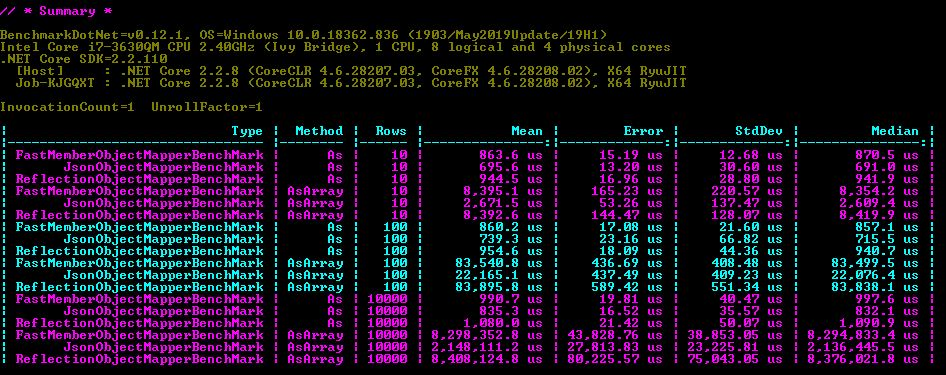
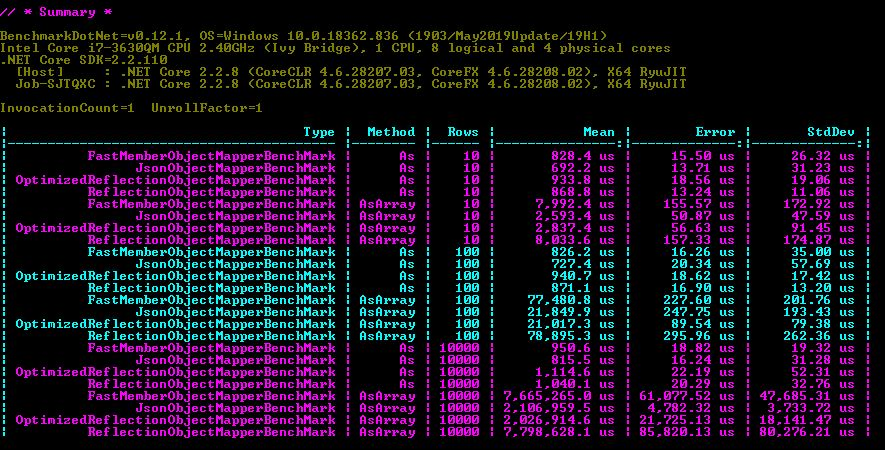
Added Optimized Reflection benchmark and updated docs

diff --git a/docs/artifacts/results/BenchmarkRun-joined-2020-06-08-22-50-22-report.html b/docs/artifacts/results/BenchmarkRun-joined-2020-06-08-22-50-22-report.html
@@ -1,0 +1,54 @@
+<!DOCTYPE html>
+<html lang='en'>
+<head>
+<meta charset='utf-8' />
+<title>BenchmarkRun-joined-2020-06-08-22-50-22</title>
+
+<style type="text/css">
+	table { border-collapse: collapse; display: block; width: 100%; overflow: auto; }
+	td, th { padding: 6px 13px; border: 1px solid #ddd; text-align: right; }
+	tr { background-color: #fff; border-top: 1px solid #ccc; }
+	tr:nth-child(even) { background: #f8f8f8; }
+</style>
+</head>
+<body>
+<pre><code>
+BenchmarkDotNet=v0.12.1, OS=Windows 10.0.18362.836 (1903/May2019Update/19H1)
+Intel Core i7-3630QM CPU 2.40GHz (Ivy Bridge), 1 CPU, 8 logical and 4 physical cores
+.NET Core SDK=2.2.110
+  [Host]     : .NET Core 2.2.8 (CoreCLR 4.6.28207.03, CoreFX 4.6.28208.02), X64 RyuJIT
+  Job-SJTQXC : .NET Core 2.2.8 (CoreCLR 4.6.28207.03, CoreFX 4.6.28208.02), X64 RyuJIT
+</code></pre>
+<pre><code>InvocationCount=1  UnrollFactor=1  
+</code></pre>
+
+<table>
+<thead><tr><th>                              Type</th><th>Method</th><th>Rows</th><th>    Mean</th><th> Error</th><th>StdDev</th>
+</tr>
+</thead><tbody><tr><td>FastMemberObjectMapperBenchMark</td><td>As</td><td>10</td><td>828.4 &mu;s</td><td>15.50 &mu;s</td><td>26.32 &mu;s</td>
+</tr><tr><td>JsonObjectMapperBenchMark</td><td>As</td><td>10</td><td>692.2 &mu;s</td><td>13.71 &mu;s</td><td>31.23 &mu;s</td>
+</tr><tr><td>OptimizedReflectionObjectMapperBenchMark</td><td>As</td><td>10</td><td>933.8 &mu;s</td><td>18.56 &mu;s</td><td>19.06 &mu;s</td>
+</tr><tr><td>ReflectionObjectMapperBenchMark</td><td>As</td><td>10</td><td>868.8 &mu;s</td><td>13.24 &mu;s</td><td>11.06 &mu;s</td>
+</tr><tr><td>FastMemberObjectMapperBenchMark</td><td>AsArray</td><td>10</td><td>7,992.4 &mu;s</td><td>155.57 &mu;s</td><td>172.92 &mu;s</td>
+</tr><tr><td>JsonObjectMapperBenchMark</td><td>AsArray</td><td>10</td><td>2,593.4 &mu;s</td><td>50.87 &mu;s</td><td>47.59 &mu;s</td>
+</tr><tr><td>OptimizedReflectionObjectMapperBenchMark</td><td>AsArray</td><td>10</td><td>2,837.4 &mu;s</td><td>56.63 &mu;s</td><td>91.45 &mu;s</td>
+</tr><tr><td>ReflectionObjectMapperBenchMark</td><td>AsArray</td><td>10</td><td>8,033.6 &mu;s</td><td>157.33 &mu;s</td><td>174.87 &mu;s</td>
+</tr><tr><td>FastMemberObjectMapperBenchMark</td><td>As</td><td>100</td><td>826.2 &mu;s</td><td>16.26 &mu;s</td><td>35.00 &mu;s</td>
+</tr><tr><td>JsonObjectMapperBenchMark</td><td>As</td><td>100</td><td>727.4 &mu;s</td><td>20.34 &mu;s</td><td>57.69 &mu;s</td>
+</tr><tr><td>OptimizedReflectionObjectMapperBenchMark</td><td>As</td><td>100</td><td>940.7 &mu;s</td><td>18.62 &mu;s</td><td>17.42 &mu;s</td>
+</tr><tr><td>ReflectionObjectMapperBenchMark</td><td>As</td><td>100</td><td>871.1 &mu;s</td><td>16.90 &mu;s</td><td>13.20 &mu;s</td>
+</tr><tr><td>FastMemberObjectMapperBenchMark</td><td>AsArray</td><td>100</td><td>77,480.8 &mu;s</td><td>227.60 &mu;s</td><td>201.76 &mu;s</td>
+</tr><tr><td>JsonObjectMapperBenchMark</td><td>AsArray</td><td>100</td><td>21,849.9 &mu;s</td><td>247.75 &mu;s</td><td>193.43 &mu;s</td>
+</tr><tr><td>OptimizedReflectionObjectMapperBenchMark</td><td>AsArray</td><td>100</td><td>21,017.3 &mu;s</td><td>89.54 &mu;s</td><td>79.38 &mu;s</td>
+</tr><tr><td>ReflectionObjectMapperBenchMark</td><td>AsArray</td><td>100</td><td>78,895.3 &mu;s</td><td>295.96 &mu;s</td><td>262.36 &mu;s</td>
+</tr><tr><td>FastMemberObjectMapperBenchMark</td><td>As</td><td>10000</td><td>950.6 &mu;s</td><td>18.82 &mu;s</td><td>19.32 &mu;s</td>
+</tr><tr><td>JsonObjectMapperBenchMark</td><td>As</td><td>10000</td><td>815.5 &mu;s</td><td>16.24 &mu;s</td><td>31.28 &mu;s</td>
+</tr><tr><td>OptimizedReflectionObjectMapperBenchMark</td><td>As</td><td>10000</td><td>1,114.6 &mu;s</td><td>22.19 &mu;s</td><td>52.31 &mu;s</td>
+</tr><tr><td>ReflectionObjectMapperBenchMark</td><td>As</td><td>10000</td><td>1,040.1 &mu;s</td><td>20.29 &mu;s</td><td>32.76 &mu;s</td>
+</tr><tr><td>FastMemberObjectMapperBenchMark</td><td>AsArray</td><td>10000</td><td>7,665,265.0 &mu;s</td><td>61,077.52 &mu;s</td><td>47,685.31 &mu;s</td>
+</tr><tr><td>JsonObjectMapperBenchMark</td><td>AsArray</td><td>10000</td><td>2,106,959.5 &mu;s</td><td>4,782.32 &mu;s</td><td>3,733.72 &mu;s</td>
+</tr><tr><td>OptimizedReflectionObjectMapperBenchMark</td><td>AsArray</td><td>10000</td><td>2,026,914.6 &mu;s</td><td>21,725.13 &mu;s</td><td>18,141.47 &mu;s</td>
+</tr><tr><td>ReflectionObjectMapperBenchMark</td><td>AsArray</td><td>10000</td><td>7,798,628.1 &mu;s</td><td>85,820.13 &mu;s</td><td>80,276.21 &mu;s</td>
+</tr></tbody></table>
+</body>
+</html>

diff --git a/src/ObjectMapperBenchMark/BenchmarkDotNet.Artifacts/results/BenchmarkRun-joined-2020-06-08-22-50-22-report.html b/src/ObjectMapperBenchMark/BenchmarkDotNet.Artifacts/results/BenchmarkRun-joined-2020-06-08-22-50-22-report.html
@@ -1,0 +1,54 @@
+<!DOCTYPE html>
+<html lang='en'>
+<head>
+<meta charset='utf-8' />
+<title>BenchmarkRun-joined-2020-06-08-22-50-22</title>
+
+<style type="text/css">
+	table { border-collapse: collapse; display: block; width: 100%; overflow: auto; }
+	td, th { padding: 6px 13px; border: 1px solid #ddd; text-align: right; }
+	tr { background-color: #fff; border-top: 1px solid #ccc; }
+	tr:nth-child(even) { background: #f8f8f8; }
+</style>
+</head>
+<body>
+<pre><code>
+BenchmarkDotNet=v0.12.1, OS=Windows 10.0.18362.836 (1903/May2019Update/19H1)
+Intel Core i7-3630QM CPU 2.40GHz (Ivy Bridge), 1 CPU, 8 logical and 4 physical cores
+.NET Core SDK=2.2.110
+  [Host]     : .NET Core 2.2.8 (CoreCLR 4.6.28207.03, CoreFX 4.6.28208.02), X64 RyuJIT
+  Job-SJTQXC : .NET Core 2.2.8 (CoreCLR 4.6.28207.03, CoreFX 4.6.28208.02), X64 RyuJIT
+</code></pre>
+<pre><code>InvocationCount=1  UnrollFactor=1  
+</code></pre>
+
+<table>
+<thead><tr><th>                              Type</th><th>Method</th><th>Rows</th><th>    Mean</th><th> Error</th><th>StdDev</th>
+</tr>
+</thead><tbody><tr><td>FastMemberObjectMapperBenchMark</td><td>As</td><td>10</td><td>828.4 &mu;s</td><td>15.50 &mu;s</td><td>26.32 &mu;s</td>
+</tr><tr><td>JsonObjectMapperBenchMark</td><td>As</td><td>10</td><td>692.2 &mu;s</td><td>13.71 &mu;s</td><td>31.23 &mu;s</td>
+</tr><tr><td>OptimizedReflectionObjectMapperBenchMark</td><td>As</td><td>10</td><td>933.8 &mu;s</td><td>18.56 &mu;s</td><td>19.06 &mu;s</td>
+</tr><tr><td>ReflectionObjectMapperBenchMark</td><td>As</td><td>10</td><td>868.8 &mu;s</td><td>13.24 &mu;s</td><td>11.06 &mu;s</td>
+</tr><tr><td>FastMemberObjectMapperBenchMark</td><td>AsArray</td><td>10</td><td>7,992.4 &mu;s</td><td>155.57 &mu;s</td><td>172.92 &mu;s</td>
+</tr><tr><td>JsonObjectMapperBenchMark</td><td>AsArray</td><td>10</td><td>2,593.4 &mu;s</td><td>50.87 &mu;s</td><td>47.59 &mu;s</td>
+</tr><tr><td>OptimizedReflectionObjectMapperBenchMark</td><td>AsArray</td><td>10</td><td>2,837.4 &mu;s</td><td>56.63 &mu;s</td><td>91.45 &mu;s</td>
+</tr><tr><td>ReflectionObjectMapperBenchMark</td><td>AsArray</td><td>10</td><td>8,033.6 &mu;s</td><td>157.33 &mu;s</td><td>174.87 &mu;s</td>
+</tr><tr><td>FastMemberObjectMapperBenchMark</td><td>As</td><td>100</td><td>826.2 &mu;s</td><td>16.26 &mu;s</td><td>35.00 &mu;s</td>
+</tr><tr><td>JsonObjectMapperBenchMark</td><td>As</td><td>100</td><td>727.4 &mu;s</td><td>20.34 &mu;s</td><td>57.69 &mu;s</td>
+</tr><tr><td>OptimizedReflectionObjectMapperBenchMark</td><td>As</td><td>100</td><td>940.7 &mu;s</td><td>18.62 &mu;s</td><td>17.42 &mu;s</td>
+</tr><tr><td>ReflectionObjectMapperBenchMark</td><td>As</td><td>100</td><td>871.1 &mu;s</td><td>16.90 &mu;s</td><td>13.20 &mu;s</td>
+</tr><tr><td>FastMemberObjectMapperBenchMark</td><td>AsArray</td><td>100</td><td>77,480.8 &mu;s</td><td>227.60 &mu;s</td><td>201.76 &mu;s</td>
+</tr><tr><td>JsonObjectMapperBenchMark</td><td>AsArray</td><td>100</td><td>21,849.9 &mu;s</td><td>247.75 &mu;s</td><td>193.43 &mu;s</td>
+</tr><tr><td>OptimizedReflectionObjectMapperBenchMark</td><td>AsArray</td><td>100</td><td>21,017.3 &mu;s</td><td>89.54 &mu;s</td><td>79.38 &mu;s</td>
+</tr><tr><td>ReflectionObjectMapperBenchMark</td><td>AsArray</td><td>100</td><td>78,895.3 &mu;s</td><td>295.96 &mu;s</td><td>262.36 &mu;s</td>
+</tr><tr><td>FastMemberObjectMapperBenchMark</td><td>As</td><td>10000</td><td>950.6 &mu;s</td><td>18.82 &mu;s</td><td>19.32 &mu;s</td>
+</tr><tr><td>JsonObjectMapperBenchMark</td><td>As</td><td>10000</td><td>815.5 &mu;s</td><td>16.24 &mu;s</td><td>31.28 &mu;s</td>
+</tr><tr><td>OptimizedReflectionObjectMapperBenchMark</td><td>As</td><td>10000</td><td>1,114.6 &mu;s</td><td>22.19 &mu;s</td><td>52.31 &mu;s</td>
+</tr><tr><td>ReflectionObjectMapperBenchMark</td><td>As</td><td>10000</td><td>1,040.1 &mu;s</td><td>20.29 &mu;s</td><td>32.76 &mu;s</td>
+</tr><tr><td>FastMemberObjectMapperBenchMark</td><td>AsArray</td><td>10000</td><td>7,665,265.0 &mu;s</td><td>61,077.52 &mu;s</td><td>47,685.31 &mu;s</td>
+</tr><tr><td>JsonObjectMapperBenchMark</td><td>AsArray</td><td>10000</td><td>2,106,959.5 &mu;s</td><td>4,782.32 &mu;s</td><td>3,733.72 &mu;s</td>
+</tr><tr><td>OptimizedReflectionObjectMapperBenchMark</td><td>AsArray</td><td>10000</td><td>2,026,914.6 &mu;s</td><td>21,725.13 &mu;s</td><td>18,141.47 &mu;s</td>
+</tr><tr><td>ReflectionObjectMapperBenchMark</td><td>AsArray</td><td>10000</td><td>7,798,628.1 &mu;s</td><td>85,820.13 &mu;s</td><td>80,276.21 &mu;s</td>
+</tr></tbody></table>
+</body>
+</html>

diff --git a/src/ObjectMapperBenchMark/Mappers/OptimizedReflectionObjectMapperBenchMark.cs b/src/ObjectMapperBenchMark/Mappers/OptimizedReflectionObjectMapperBenchMark.cs
@@ -1,0 +1,127 @@
+using System;
+using System.Collections.Generic;
+using System.Data;
+using System.Reflection;
+using BenchmarkDotNet.Attributes;
+using BenchmarkDotNet.Engines;
+using Moq;
+using ObjectMapperBenchMark.Extensions;
+
+namespace ObjectMapperBenchMark.Mappers
+{
+    public class OptimizedReflectionObjectMapperBenchMark
+    {
+        private Mock<IDataReader> reader;
+        private Consumer consumer;
+
+        [Params(10, 100, 10000)]
+        public int Rows { get; set; }
+
+        [GlobalSetup]
+        public void GlobalSetup()
+        {
+            this.reader = new Mock<IDataReader>();
+            this.consumer = new Consumer();
+            this.reader.Setup();
+        }
+
+        [GlobalCleanup]
+        public void GlobalCleanup()
+        {
+            this.reader = null;
+        }
+
+        [IterationSetup]
+        public void IterationSetup()
+        {
+            this.reader.SetupRows(this.Rows);
+        }
+
+        [Benchmark]
+        public Model As()
+        {
+            var result = this.AsOptimizedReflection<Model>(this.reader.Object);
+            return result;
+        }
+
+        [Benchmark]
+        public void AsArray()
+        {
+            var result = this.AsArrayOptimizedReflection<Model>(this.reader.Object);
+            result.Consume(this.consumer);
+        }
+
+        private T AsOptimizedReflection<T>(IDataReader reader) where T : class, new()
+        {
+            var properties = this.CacheProperties<T>(reader);
+            var result = this.MapToProperties(properties, reader);
+            return result;
+        }
+
+        private IEnumerable<T> AsArrayOptimizedReflection<T>(IDataReader reader) where T : class, new()
+        {
+            var results = new List<T>(reader.FieldCount);
+            var properties = this.CacheProperties<T>(reader);
+
+            while (reader.Read())
+            {
+                results.Add(this.MapToProperties(properties, reader));
+            }
+
+            return results;
+        }
+
+        private Dictionary<string, Action<T, object>> CacheProperties<T>(IDataReader reader) where T : class, new()
+        {
+            var properties = new Dictionary<string, Action<T, object>>();
+
+            for (int i = 0; i < reader.FieldCount; i++)
+            {
+                var fieldName = reader.GetName(i);
+                var methodInfo = typeof(T).GetProperty(reader.GetName(i))?.GetSetMethod();
+
+                if (methodInfo != null)
+                {
+                    var setter = ReflectionOptimizer.CreateDowncastDelegate<T>(methodInfo);
+                    properties.Add(fieldName, setter);
+                }
+            }
+
+            return properties;
+        }
+
+        private T MapToProperties<T>(Dictionary<string, Action<T, object>> properties, IDataReader reader) where T : class, new()
+        {
+            var result = new T();
+
+            foreach (var property in properties)
+            {
+                var value = reader[property.Key];
+                if (value == DBNull.Value)
+                {
+                    value = null;
+                }
+                property.Value(result, value);
+            }
+
+            return result;
+        }
+
+        internal static class ReflectionOptimizer
+        {
+            public static Action<T, object> CreateDowncastDelegate<T>(MethodInfo method)
+            {
+                MethodInfo openImpl = typeof(ReflectionOptimizer).GetMethod(nameof(CreateDowncastDelegateImpl));
+                MethodInfo closedImpl = openImpl.MakeGenericMethod(typeof(T), method.GetParameters()[0].ParameterType);
+                return (Action<T, object>)closedImpl.Invoke(null, new object[] { method });
+            }
+
+            public static Action<TSource, object> CreateDowncastDelegateImpl<TSource, TParam>(MethodInfo method)
+            {
+                object tdelegate = Delegate.CreateDelegate(typeof(Action<TSource, TParam>), null, method);
+                Action<TSource, TParam> call = (Action<TSource, TParam>)tdelegate;
+                return delegate (TSource source, object parameter) { call(source, (TParam)parameter); };
+            }
+        }
+    }
+}

diff --git a/src/ObjectMapperBenchMark/Extensions/DataReaderMockSetup.cs b/src/ObjectMapperBenchMark/Extensions/DataReaderMockSetup.cs
@@ -18,7 +18,7 @@ namespace ObjectMapperBenchMark.Extensions
             reader.Setup(m => m["Id"]).Returns(Guid.NewGuid());
             reader.Setup(m => m["Integer"]).Returns(int.MaxValue);
             reader.Setup(m => m["Decimal"]).Returns(decimal.MaxValue);
-            reader.Setup(m => m["String"]).Returns("Hello World");
+            reader.Setup(m => m["String"]).Returns(DBNull.Value);
             reader.Setup(m => m["Date"]).Returns(DateTime.UtcNow);
         }
 

diff --git a/docs/artifacts/results/BenchmarkRun-joined-2020-06-08-22-50-22-report-github.md b/docs/artifacts/results/BenchmarkRun-joined-2020-06-08-22-50-22-report-github.md
@@ -1,0 +1,37 @@
+``` ini
+
+BenchmarkDotNet=v0.12.1, OS=Windows 10.0.18362.836 (1903/May2019Update/19H1)
+Intel Core i7-3630QM CPU 2.40GHz (Ivy Bridge), 1 CPU, 8 logical and 4 physical cores
+.NET Core SDK=2.2.110
+  [Host]     : .NET Core 2.2.8 (CoreCLR 4.6.28207.03, CoreFX 4.6.28208.02), X64 RyuJIT
+  Job-SJTQXC : .NET Core 2.2.8 (CoreCLR 4.6.28207.03, CoreFX 4.6.28208.02), X64 RyuJIT
+
+InvocationCount=1  UnrollFactor=1  
+
+```
+|                                     Type |  Method |  Rows |           Mean |        Error |       StdDev |
+|----------------------------------------- |-------- |------ |---------------:|-------------:|-------------:|
+|          **FastMemberObjectMapperBenchMark** |      **As** |    **10** |       **828.4 μs** |     **15.50 μs** |     **26.32 μs** |
+|                JsonObjectMapperBenchMark |      As |    10 |       692.2 μs |     13.71 μs |     31.23 μs |
+| OptimizedReflectionObjectMapperBenchMark |      As |    10 |       933.8 μs |     18.56 μs |     19.06 μs |
+|          ReflectionObjectMapperBenchMark |      As |    10 |       868.8 μs |     13.24 μs |     11.06 μs |
+|          FastMemberObjectMapperBenchMark | AsArray |    10 |     7,992.4 μs |    155.57 μs |    172.92 μs |
+|                JsonObjectMapperBenchMark | AsArray |    10 |     2,593.4 μs |     50.87 μs |     47.59 μs |
+| OptimizedReflectionObjectMapperBenchMark | AsArray |    10 |     2,837.4 μs |     56.63 μs |     91.45 μs |
+|          ReflectionObjectMapperBenchMark | AsArray |    10 |     8,033.6 μs |    157.33 μs |    174.87 μs |
+|          **FastMemberObjectMapperBenchMark** |      **As** |   **100** |       **826.2 μs** |     **16.26 μs** |     **35.00 μs** |
+|                JsonObjectMapperBenchMark |      As |   100 |       727.4 μs |     20.34 μs |     57.69 μs |
+| OptimizedReflectionObjectMapperBenchMark |      As |   100 |       940.7 μs |     18.62 μs |     17.42 μs |
+|          ReflectionObjectMapperBenchMark |      As |   100 |       871.1 μs |     16.90 μs |     13.20 μs |
+|          FastMemberObjectMapperBenchMark | AsArray |   100 |    77,480.8 μs |    227.60 μs |    201.76 μs |
+|                JsonObjectMapperBenchMark | AsArray |   100 |    21,849.9 μs |    247.75 μs |    193.43 μs |
+| OptimizedReflectionObjectMapperBenchMark | AsArray |   100 |    21,017.3 μs |     89.54 μs |     79.38 μs |
+|          ReflectionObjectMapperBenchMark | AsArray |   100 |    78,895.3 μs |    295.96 μs |    262.36 μs |
+|          **FastMemberObjectMapperBenchMark** |      **As** | **10000** |       **950.6 μs** |     **18.82 μs** |     **19.32 μs** |
+|                JsonObjectMapperBenchMark |      As | 10000 |       815.5 μs |     16.24 μs |     31.28 μs |
+| OptimizedReflectionObjectMapperBenchMark |      As | 10000 |     1,114.6 μs |     22.19 μs |     52.31 μs |
+|          ReflectionObjectMapperBenchMark |      As | 10000 |     1,040.1 μs |     20.29 μs |     32.76 μs |
+|          FastMemberObjectMapperBenchMark | AsArray | 10000 | 7,665,265.0 μs | 61,077.52 μs | 47,685.31 μs |
+|                JsonObjectMapperBenchMark | AsArray | 10000 | 2,106,959.5 μs |  4,782.32 μs |  3,733.72 μs |
+| OptimizedReflectionObjectMapperBenchMark | AsArray | 10000 | 2,026,914.6 μs | 21,725.13 μs | 18,141.47 μs |
+|          ReflectionObjectMapperBenchMark | AsArray | 10000 | 7,798,628.1 μs | 85,820.13 μs | 80,276.21 μs |

diff --git a/src/ObjectMapperBenchMark/BenchmarkDotNet.Artifacts/results/BenchmarkRun-joined-2020-06-08-22-50-22-report-github.md b/src/ObjectMapperBenchMark/BenchmarkDotNet.Artifacts/results/BenchmarkRun-joined-2020-06-08-22-50-22-report-github.md
@@ -1,0 +1,37 @@
+``` ini
+
+BenchmarkDotNet=v0.12.1, OS=Windows 10.0.18362.836 (1903/May2019Update/19H1)
+Intel Core i7-3630QM CPU 2.40GHz (Ivy Bridge), 1 CPU, 8 logical and 4 physical cores
+.NET Core SDK=2.2.110
+  [Host]     : .NET Core 2.2.8 (CoreCLR 4.6.28207.03, CoreFX 4.6.28208.02), X64 RyuJIT
+  Job-SJTQXC : .NET Core 2.2.8 (CoreCLR 4.6.28207.03, CoreFX 4.6.28208.02), X64 RyuJIT
+
+InvocationCount=1  UnrollFactor=1  
+
+```
+|                                     Type |  Method |  Rows |           Mean |        Error |       StdDev |
+|----------------------------------------- |-------- |------ |---------------:|-------------:|-------------:|
+|          **FastMemberObjectMapperBenchMark** |      **As** |    **10** |       **828.4 μs** |     **15.50 μs** |     **26.32 μs** |
+|                JsonObjectMapperBenchMark |      As |    10 |       692.2 μs |     13.71 μs |     31.23 μs |
+| OptimizedReflectionObjectMapperBenchMark |      As |    10 |       933.8 μs |     18.56 μs |     19.06 μs |
+|          ReflectionObjectMapperBenchMark |      As |    10 |       868.8 μs |     13.24 μs |     11.06 μs |
+|          FastMemberObjectMapperBenchMark | AsArray |    10 |     7,992.4 μs |    155.57 μs |    172.92 μs |
+|                JsonObjectMapperBenchMark | AsArray |    10 |     2,593.4 μs |     50.87 μs |     47.59 μs |
+| OptimizedReflectionObjectMapperBenchMark | AsArray |    10 |     2,837.4 μs |     56.63 μs |     91.45 μs |
+|          ReflectionObjectMapperBenchMark | AsArray |    10 |     8,033.6 μs |    157.33 μs |    174.87 μs |
+|          **FastMemberObjectMapperBenchMark** |      **As** |   **100** |       **826.2 μs** |     **16.26 μs** |     **35.00 μs** |
+|                JsonObjectMapperBenchMark |      As |   100 |       727.4 μs |     20.34 μs |     57.69 μs |
+| OptimizedReflectionObjectMapperBenchMark |      As |   100 |       940.7 μs |     18.62 μs |     17.42 μs |
+|          ReflectionObjectMapperBenchMark |      As |   100 |       871.1 μs |     16.90 μs |     13.20 μs |
+|          FastMemberObjectMapperBenchMark | AsArray |   100 |    77,480.8 μs |    227.60 μs |    201.76 μs |
+|                JsonObjectMapperBenchMark | AsArray |   100 |    21,849.9 μs |    247.75 μs |    193.43 μs |
+| OptimizedReflectionObjectMapperBenchMark | AsArray |   100 |    21,017.3 μs |     89.54 μs |     79.38 μs |
+|          ReflectionObjectMapperBenchMark | AsArray |   100 |    78,895.3 μs |    295.96 μs |    262.36 μs |
+|          **FastMemberObjectMapperBenchMark** |      **As** | **10000** |       **950.6 μs** |     **18.82 μs** |     **19.32 μs** |
+|                JsonObjectMapperBenchMark |      As | 10000 |       815.5 μs |     16.24 μs |     31.28 μs |
+| OptimizedReflectionObjectMapperBenchMark |      As | 10000 |     1,114.6 μs |     22.19 μs |     52.31 μs |
+|          ReflectionObjectMapperBenchMark |      As | 10000 |     1,040.1 μs |     20.29 μs |     32.76 μs |
+|          FastMemberObjectMapperBenchMark | AsArray | 10000 | 7,665,265.0 μs | 61,077.52 μs | 47,685.31 μs |
+|                JsonObjectMapperBenchMark | AsArray | 10000 | 2,106,959.5 μs |  4,782.32 μs |  3,733.72 μs |
+| OptimizedReflectionObjectMapperBenchMark | AsArray | 10000 | 2,026,914.6 μs | 21,725.13 μs | 18,141.47 μs |
+|          ReflectionObjectMapperBenchMark | AsArray | 10000 | 7,798,628.1 μs | 85,820.13 μs | 80,276.21 μs |

diff --git a/README.md b/README.md
@@ -5,6 +5,7 @@ A simple benchmark using [BenchmarkDotNet](https://github.com/dotnet/BenchmarkDo
 1. [Json Serialize-Deserialize](https://github.com/IanEscober/ObjectMapperBenchmark/blob/master/src/ObjectMapperBenchMark/Mappers/JsonObjectMapperBenchMark.cs) - Uses [Newtonsoft.Json](https://www.nuget.org/packages/Newtonsoft.Json/) library to serialize a dictionary of property names and its value then deserialzing it to an object.
 2. [Reflection](https://github.com/IanEscober/ObjectMapperBenchmark/blob/master/src/ObjectMapperBenchMark/Mappers/ReflectionObjectMapperBenchMark.cs) - Hand made plain old reflection.
 3. [FastMember Reflection](https://github.com/IanEscober/ObjectMapperBenchmark/blob/master/src/ObjectMapperBenchMark/Mappers/FastMemberObjectMapperBenchMark.cs) - Uses Marc Gravell's [FastMember Library](https://github.com/mgravell/fast-member) that improves reflection performance.
+4. [Optimized Reflection](https://github.com/IanEscober/ObjectMapperBenchmark/blob/master/src/ObjectMapperBenchMark/Mappers/OptimizedReflectionObjectMapperBenchMark.cs) - Inspired by [Google ProtoBuf](https://github.com/protocolbuffers/protobuf) which caches object setter to drastically improve mapping performance.
 
 ## Methods
 1. `As()` - Maps a single row to an object.
@@ -23,7 +24,7 @@ public class Model
 
     public decimal Decimal { get; set; } // Mock = decimal.MaxValue
 
-    public string String { get; set; } // Mock = Hello World
+    public string String { get; set; } // Mock = null
 
     public DateTime Date { get; set; } // Mock = DateTime.UtcNow
 }
@@ -32,7 +33,13 @@ public class Model
 ## Results
 ![Bechmark Results](https://github.com/IanEscober/ObjectMapperBenchmark/blob/master/docs/Results.JPG)
 
-- __Fastest Mapping is by Json Serialize-Deserialize__ which is 4x faster than the other two techniques on mapping multiple rows but a marginal difference on single row mapping.
+- __In mapping single rows, all techniques are very close to each other__. Json Serialize-Deserialize happens to have the fastest time but it is frankly small, in 100ths of a microsecond which barely affects performance in practice.
+- __In mapping multiple rows the performance competition can be narrowed down to two (2) techniques, Json Serialize-Deserialize and Optimized Reflection__. Plain old reflection and FastMember are 4x slower than the latter.
+- At 10 rows Json Serialize-Deserialize is faster than Optimized Reflection by ~8 %. As the magnitude of rows increase by 10 (100, 10000), Optimized Reflection seems to be faster at ~3 %.
+
+## Conclusion
+- At single row mapping all techniques pratically performs the same.
+- At multiple row mapping either Json Serialize-Deserialize or Optimized Reflection are good options. The choice will just depend on usage and overhead since [Newtonsoft.Json](https://www.nuget.org/packages/Newtonsoft.Json/) is a whole library compared to reflection which is built in.
 
 ## Contribution
 Yeet a Pull Request
